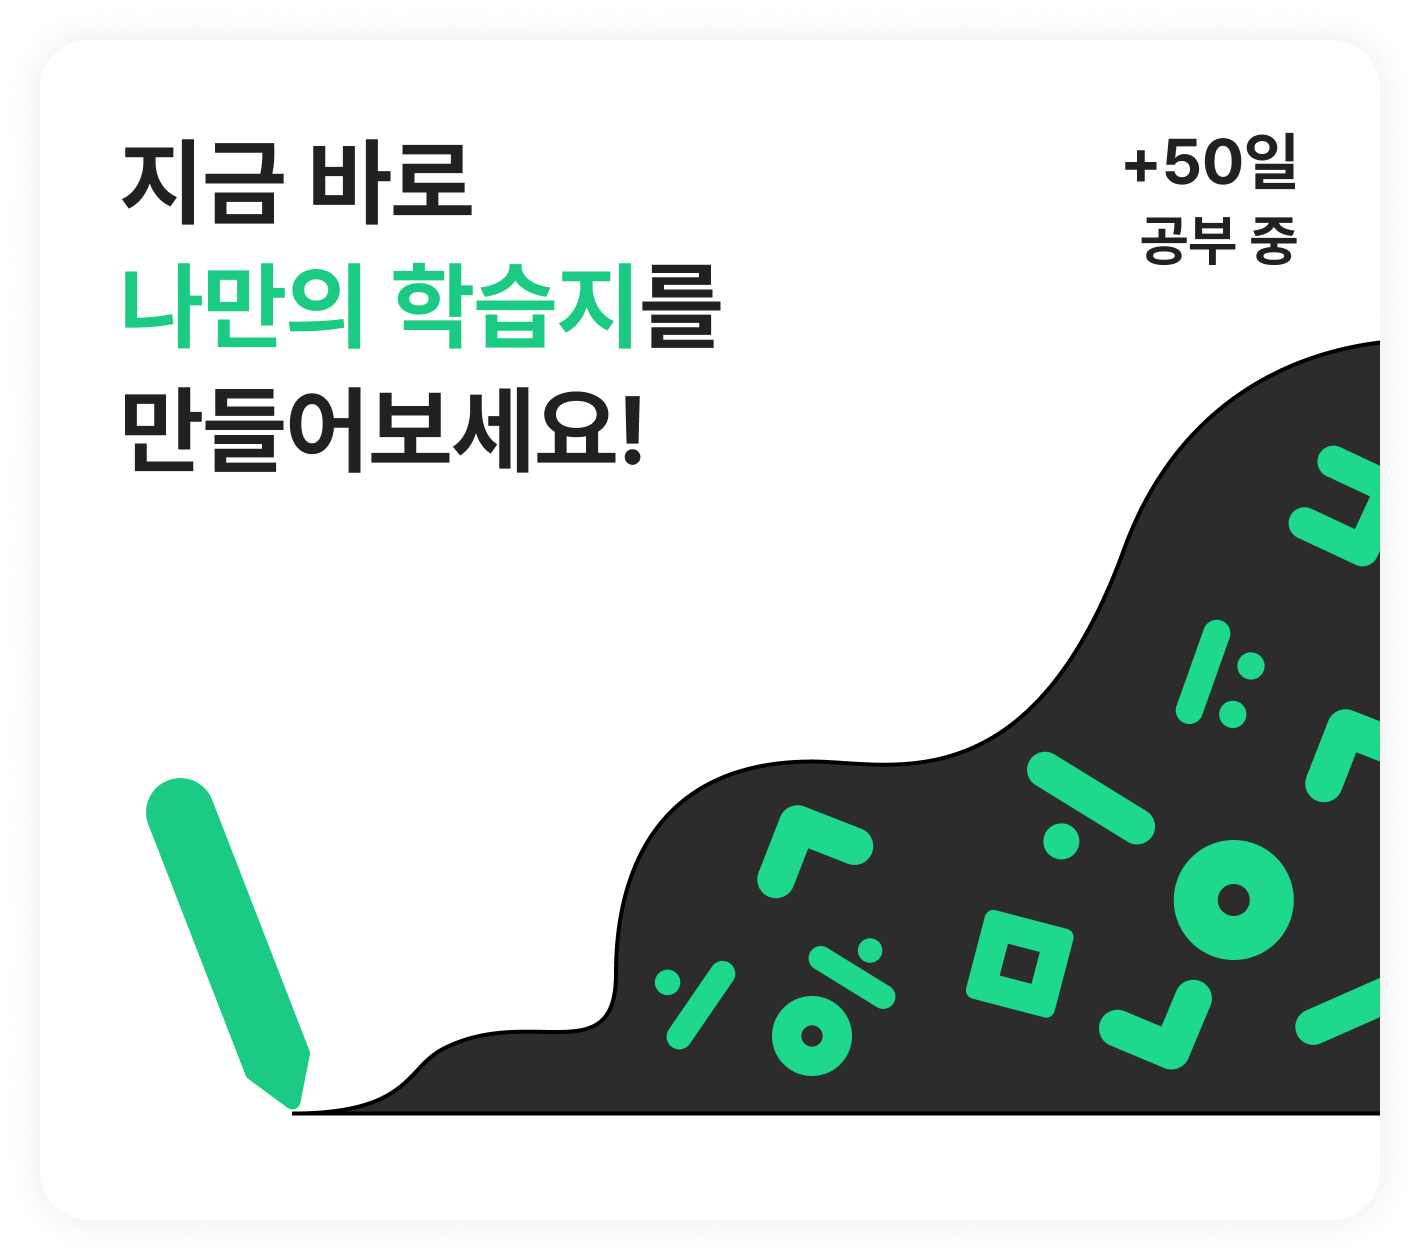
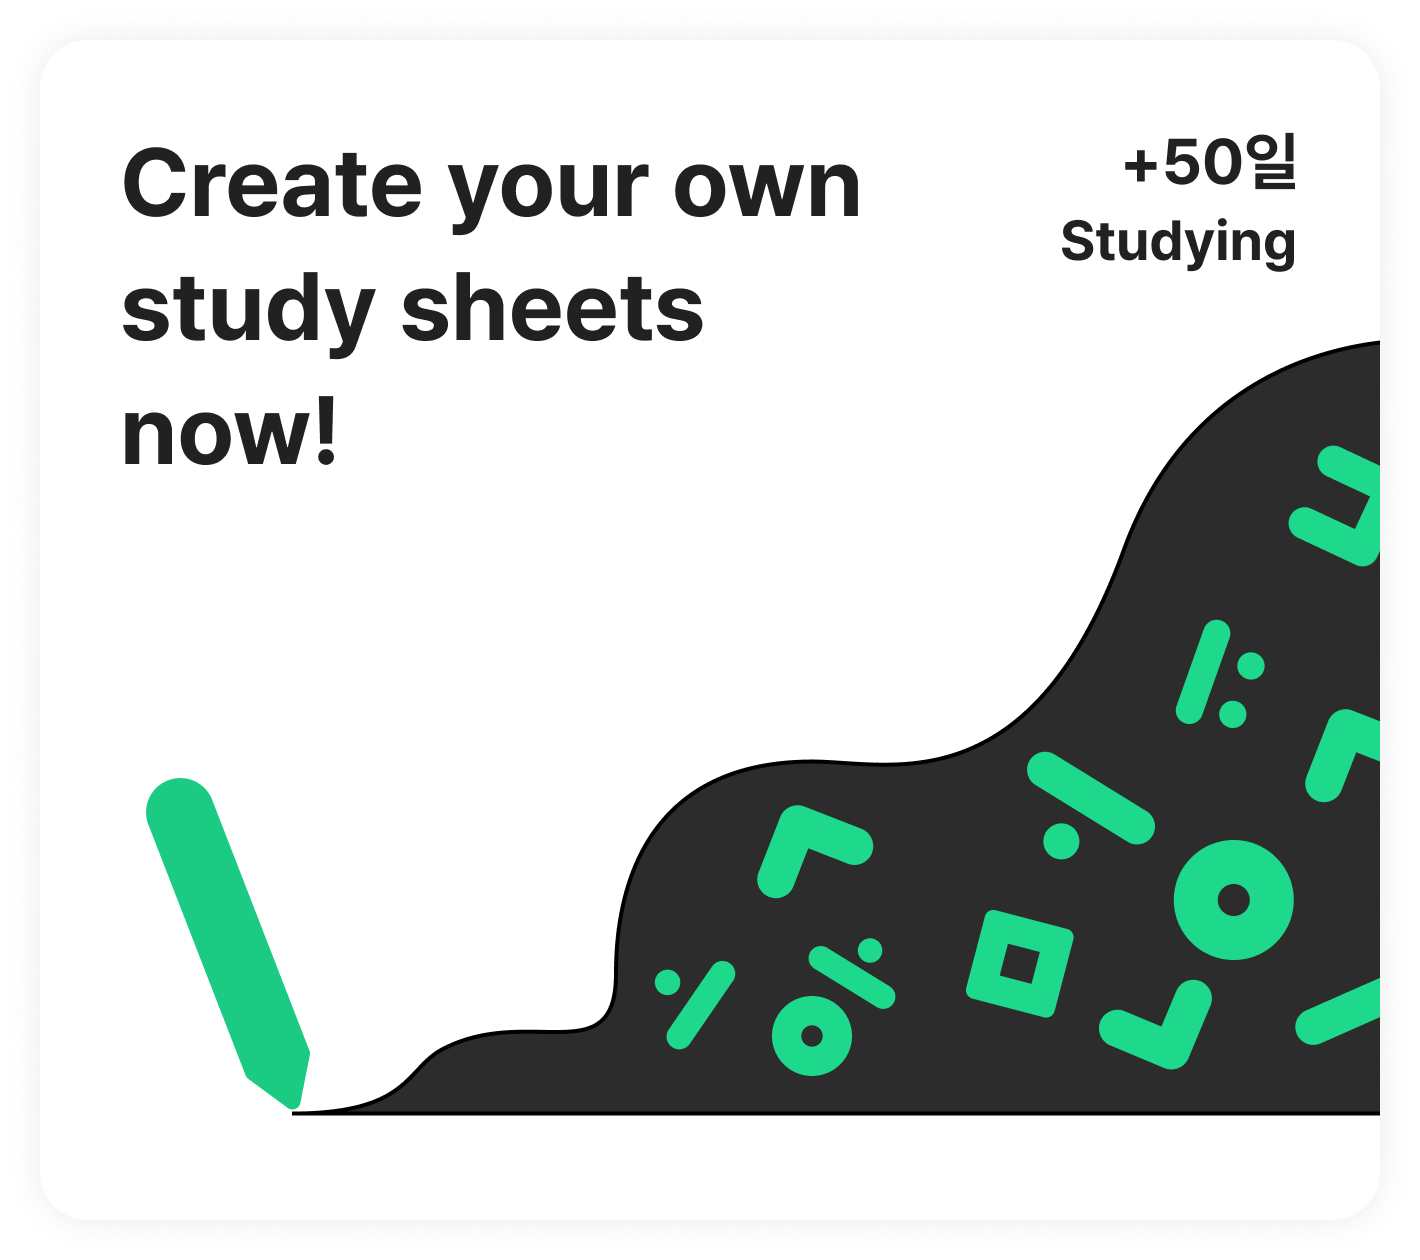
[feat] : 언어 영어로 변경

Changed region(s): [[0.062, 0.0929, 0.6197, 0.4024], [0.7437, 0.1548, 0.9296, 0.2167]]

diff --git a/frontend/src/components/dictation-page/DictationResult.tsx b/frontend/src/components/dictation-page/DictationResult.tsx
@@ -5,25 +5,24 @@ const DictationResult: React.FC = () => {
   return (
     <div className="result-container">
       <div className="result-name-box">
-        <div>~~~님 </div>
+        <div>Maria,</div>
       </div>
       <div className="result-text-box">
-        <div>받아쓰기 결과는</div>
-        <div className="result-score">~~점</div>
-        <div>입니다.</div>
+        <div>the dictation result is</div>
+        <div className="result-score">00.</div>
       </div>
       <div className="result-score-box">
         <div>
-          <span>문제</span>
-          <span>~개</span>
+          <span>Question</span>
+          <span>10</span>
         </div>
         <div>
-          <span>정답</span>
-          <span style={{ color: "#5585FF" }}>~개</span>
+          <span>correct answer</span>
+          <span style={{ color: "#5585FF" }}>8</span>
         </div>
         <div>
-          <span>오답</span>
-          <span style={{ color: "#FF6262" }}>~개</span>
+          <span>wrong answer</span>
+          <span style={{ color: "#FF6262" }}>2</span>
         </div>
       </div>
 
@@ -31,8 +30,8 @@ const DictationResult: React.FC = () => {
         <div className="dictation-result">리스트</div>
       </div>
       <div className="result-page-btns">
-        <div className="result-page-btn">다시하기</div>
-        <div className="result-page-btn create-note">오답노트 생성</div>
+        <div className="result-page-btn">Restart</div>
+        <div className="result-page-btn create-note">Review</div>
       </div>
     </div>
   );

diff --git a/frontend/src/components/dictation-page/SelectGrade.tsx b/frontend/src/components/dictation-page/SelectGrade.tsx
@@ -27,28 +27,28 @@ const SelectGrade: React.FC = () => {
         onClick={() => handleClick("입문")}
         className={`grade-option ${currentGrade === "입문" ? "selected" : ""}`}
       >
-        입문
+        Introductory
       </div>
       <div
         onClick={() => handleClick("초급")}
         className={`grade-option ${currentGrade === "초급" ? "selected" : ""}`}
       >
-        초급
+        Beginner
       </div>
       <div
         onClick={() => handleClick("중급")}
         className={`grade-option ${currentGrade === "중급" ? "selected" : ""}`}
       >
-        중급
+        Intermediate
       </div>
       <div
         onClick={() => handleClick("고급")}
         className={`grade-option ${currentGrade === "고급" ? "selected" : ""}`}
       >
-        고급
+        Advanced
       </div>
       <div onClick={handleNextClick} className={`next-button`}>
-        다음
+        Next
       </div>
     </div>
   );

diff --git a/frontend/src/components/dictation-page/Scan.tsx b/frontend/src/components/dictation-page/Scan.tsx
@@ -1,14 +1,21 @@
 import React from "react";
 import "./Scan.css";
+import { useNavigate } from "react-router-dom";
 
 const Scan: React.FC = () => {
+  const navigate = useNavigate();
+  const clickPrintBtn = () => {
+    navigate("/dictation/result");
+  };
   return (
     <div>
       <div className="scan-text-box">
-        <div className="complete-dictation">받아쓰기 완료</div>
-        <div className="scan-text">작성한 답안지를 스캔해주세요</div>
+        <div className="complete-dictation">Finished</div>
+        <div className="scan-text">Scan your completed answer sheet</div>
       </div>
-      <div className="get-print-btn">출력 생성</div>
+      <div className="get-print-btn" onClick={clickPrintBtn}>
+        Print
+      </div>
     </div>
   );
 };

diff --git a/frontend/src/components/home/WorksheetPageBtn.tsx b/frontend/src/components/home/WorksheetPageBtn.tsx
@@ -12,8 +12,8 @@ const WorksheetPageBtn: React.FC = () => {
     <div className="main-page-btn" onClick={clickEvent}>
       <img src={icon} alt="" className="icon" />
       <div className="text-box">
-        <div className="function-name">학습지 생성</div>
-        <div className="explanation">맞춤 학습지를 만들어보세요</div>
+        <div className="function-name">Create a study sheet</div>
+        <div className="explanation">Create a personalized study sheet</div>
       </div>
       <img src={arrow} alt="" className="arrow" />
     </div>

diff --git a/frontend/src/components/home/DictationPageBtn.tsx b/frontend/src/components/home/DictationPageBtn.tsx
@@ -13,8 +13,8 @@ const DictationPageBtn: React.FC = () => {
     <div className="main-page-btn" onClick={clickEvent}>
       <img src={icon} alt="" className="icon" />
       <div className="text-box">
-        <div className="function-name">받아쓰기</div>
-        <div className="explanation">한국어 실력을 확인해보세요</div>
+        <div className="function-name">Dictation</div>
+        <div className="explanation">Check your Korean language skills.</div>
       </div>
       <img src={arrow} alt="" className="arrow" />
     </div>

diff --git a/frontend/src/components/home/PrintPageBtn.tsx b/frontend/src/components/home/PrintPageBtn.tsx
@@ -14,8 +14,8 @@ const PrintPageBtn: React.FC = () => {
     <div className="main-page-btn" onClick={clickEvent}>
       <img src={icon} className="icon" />
       <div className="text-box">
-        <div className="function-name">출력하기</div>
-        <div className="explanation">나만의 학습지 출력</div>
+        <div className="function-name">Print</div>
+        <div className="explanation">Print your own study sheets</div>
       </div>
       <img src={arrow} className="arrow" />
     </div>

diff --git a/frontend/src/components/dictation-page/Dictation.tsx b/frontend/src/components/dictation-page/Dictation.tsx
@@ -67,7 +67,7 @@ const Dictation: React.FC = () => {
   return (
     <div className="speak-container">
       <div onClick={speak} className="speak-btn">
-        <div>받아쓰기중..</div>
+        <div style={{ fontWeight: "bold" }}>Dictating</div>
         <img src={speakBtn} />
       </div>
       {/* <img src={stopSpeakBtn} className="stop-btn">

diff --git a/frontend/src/components/record/RecordBox.tsx b/frontend/src/components/record/RecordBox.tsx
@@ -34,7 +34,7 @@ const RecordBox: React.FC<RecordBoxProps> = ({ onTranscriptChange }) => {
 
   return (
     <div className="record-box">
-      <div>음성 입력해주세요</div>
+      <div>Please enter your voice</div>
       {/* 이미지 클릭 시 녹음 시작 또는 중지 */}
       <img
         className="record-button"

diff --git a/frontend/src/components/record/TextModal.css b/frontend/src/components/record/TextModal.css
@@ -2,6 +2,7 @@
   position: absolute;
   padding: 0;
   height: 550px;
+  width: 100%;
   background-color: white;
   bottom: 0;
   /* padding-left: 1.2rem;

diff --git a/frontend/src/components/dictation-page/DictationResult.css b/frontend/src/components/dictation-page/DictationResult.css
@@ -29,6 +29,7 @@
   margin-left: 1.5rem;
   margin-top: 2rem;
   margin-bottom: 2rem;
+  font-size: 0.8rem;
 }
 
 .dictation-result-box {
